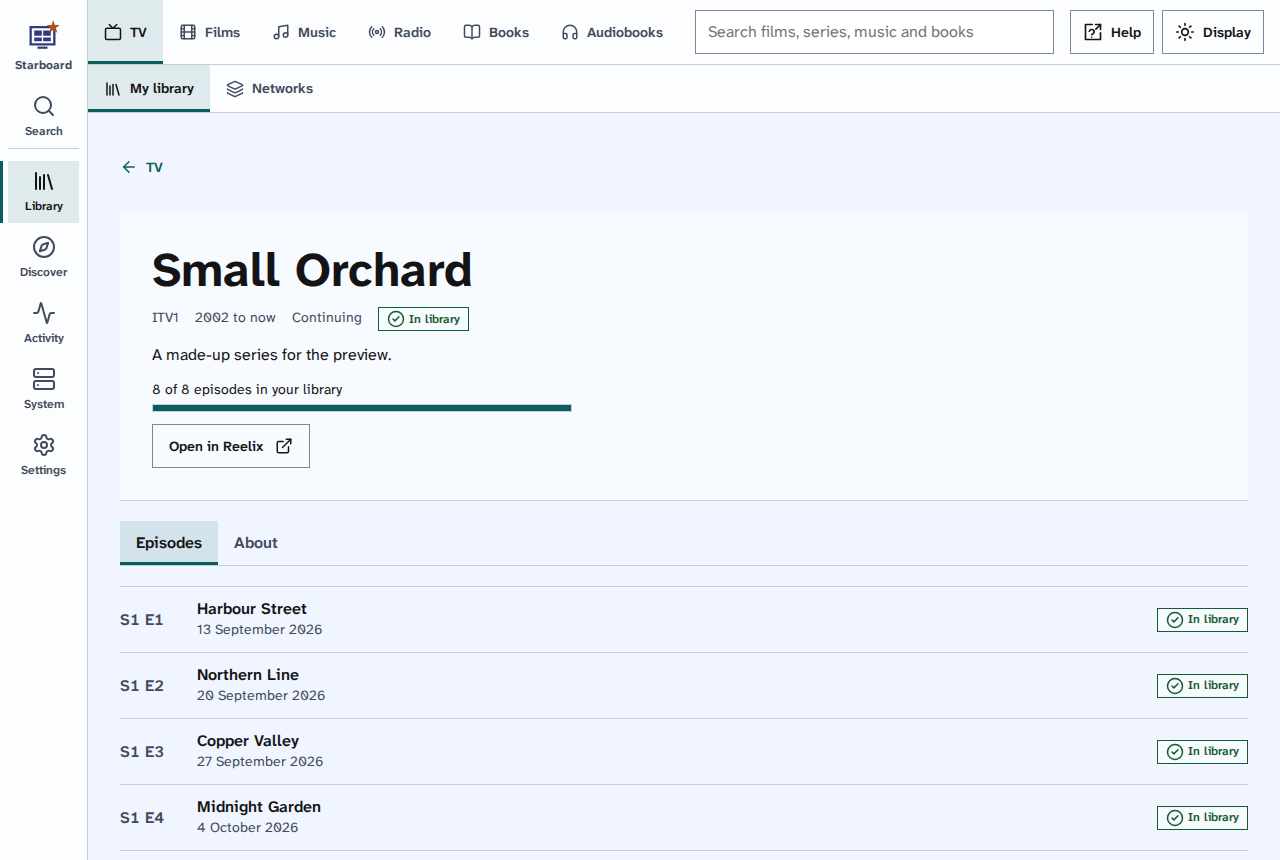
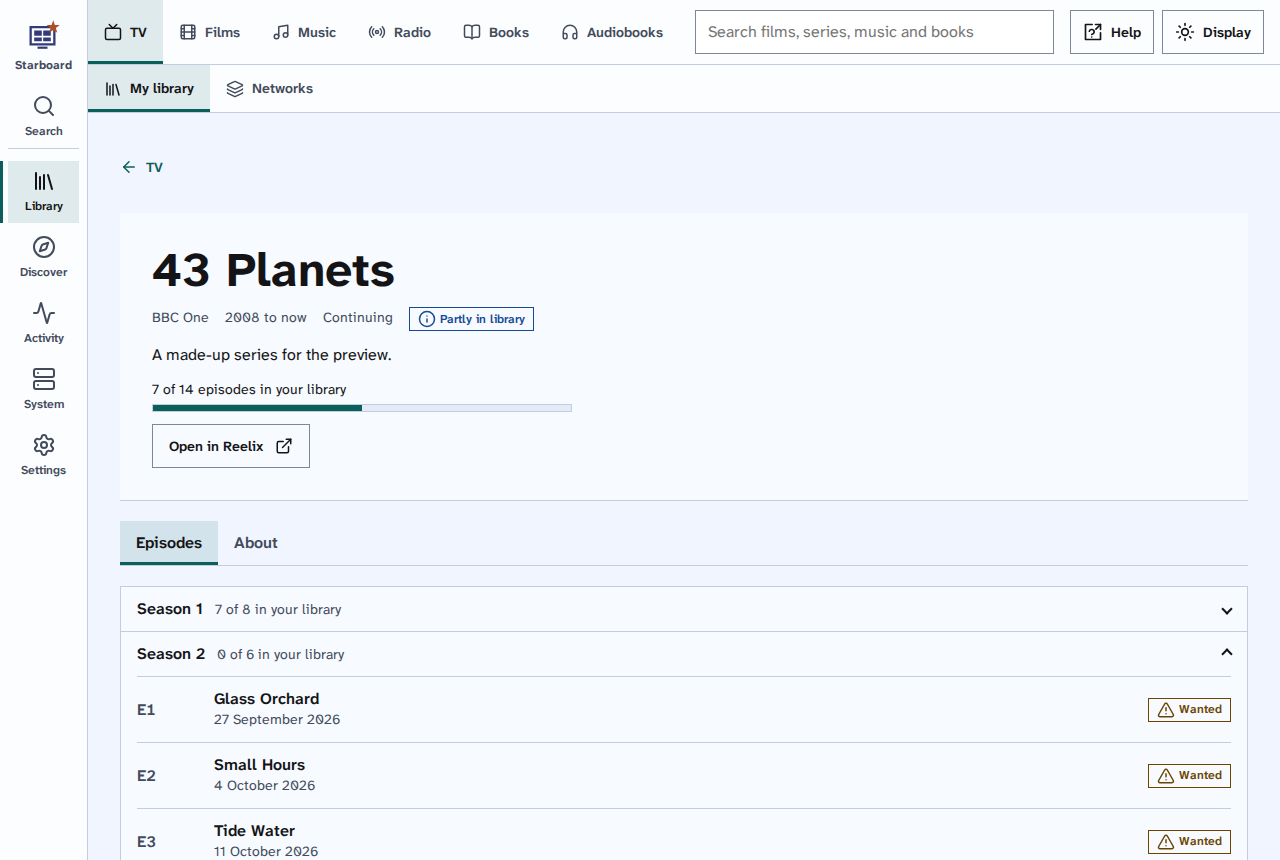
Library: a series' episodes grouped by season, the newest open
Each season is a disclosure with how many of its episodes are in the library; specials come last. A series of one
season stays a plain list. Unit test, a journey check (also at phone width), help step 7, changelog, and the README
and help pictures now show a two-season series.

diff --git a/web/js/library-item.js b/web/js/library-item.js
@@ -14,6 +14,14 @@ function rowList(rows) {
     el("div", { class: "row__side" }, r.status ? chip(r.status, r.tone) : null))));
 }
 
+// A long list in groups (a series' seasons): one disclosure each, the newest open. One group stays a plain list.
+function groupList(list) {
+  if (!list.groups || list.groups.length < 2) return rowList(list.rows);
+  return el("div", { class: "lib-seasons" }, ...list.groups.map((g) => el("details", { class: "disclosure", open: g.open || null },
+    el("summary", {}, el("span", { text: g.heading }), el("span", { class: "disclosure__meta", text: g.meta })),
+    el("div", { class: "disclosure__body" }, rowList(g.rows)))));
+}
+
 function about(item) {
   return el("div", { class: "stack-4" },
     item.overview ? el("p", { class: "prose", text: item.overview }) : null,
@@ -93,7 +101,7 @@ startPage().then(async () => {
   try {
     const item = await api(`/api/library/item?tab=${ITEM_TAB}&id=${id}`);
     document.title = `${item.title} · ${document.title}`;
-    const parts = item.lists.filter((l) => l.rows.length).map((l) => ({ key: l.key, label: l.label, heading: l.heading, body: rowList(l.rows) }));
+    const parts = item.lists.filter((l) => l.rows.length).map((l) => ({ key: l.key, label: l.label, heading: l.heading, body: groupList(l) }));
     parts.push({ key: "about", label: "About", heading: "", body: about(item) });
     if (ITEM_TAB === "films") parts.unshift(parts.pop()); // a film opens on About, then its collection
     box.replaceChildren(head(item), ...(parts.length > 1 ? tabs(parts) : [parts[0].body]));

diff --git a/starboard/library.py b/starboard/library.py
@@ -528,6 +528,20 @@ def _open(reelix, path):
     return {"label": "Open in Reelix", "href": reelix["link"].rstrip("/") + path}
 
 
+def _seasons(seasons):
+    """Episodes grouped by season, numbered seasons first, then Specials (season 0). The newest season opens; the
+    page shows the others closed, so a long series is not one long list."""
+    order = sorted(n for n in seasons if n) + ([0] if 0 in seasons else [])
+    newest = max((n for n in seasons if n), default=0)
+    out = []
+    for n in order:
+        rows = seasons[n]
+        have = sum(1 for r in rows if r["status"] == STATUS["in_library"][0])
+        out.append({"heading": f"Season {n}" if n else "Specials",
+                    "meta": f"{have:,} of {len(rows):,} in your library", "open": n == newest, "rows": rows})
+    return out
+
+
 def item(data_dir, reelix, tab, item_id):
     """One item's page: header, facts and its list (episodes, reading order, albums, collection)."""
     item_id = int(item_id)
@@ -561,12 +575,14 @@ def item(data_dir, reelix, tab, item_id):
         e = _series(s)
         st = s.get("statistics") or {}
         have, total = int(st.get("episode_file_count") or 0), int(st.get("episode_count") or 0)
-        rows = []
+        rows, seasons = [], {}
         for ep in sorted(episodes, key=lambda x: (x.get("season_number") or 0, x.get("episode_number") or 0)):
             aired = ep.get("air_date") or ""
             status = "in_library" if ep.get("has_file") else "not_released" if (not aired or aired > today) else \
                 "wanted" if ep.get("monitored", True) else "not_monitored"
-            rows.append(_row(f"S{ep.get('season_number', 0)} E{ep.get('episode_number', 0)}", ep.get("title"), aired, status))
+            row = _row(f"E{ep.get('episode_number', 0)}", ep.get("title"), aired, status)
+            rows.append(row)
+            seasons.setdefault(int(ep.get("season_number") or 0), []).append(row)
         out = {"title": s.get("title"), "meta": [x for x in (s.get("network") or "", e["m"].split(" · ")[-1] if e["m"] else "",
                                                              {"continuing": "Continuing", "ended": "Ended", "upcoming": "Coming soon"}.get(s.get("status"), ""))
                                                  if x],
@@ -576,7 +592,7 @@ def item(data_dir, reelix, tab, item_id):
         facts = [("Network", s.get("network")), ("First aired", _date(s.get("first_aired"))), ("Last aired", _date(s.get("last_aired"))),
                  ("Next airing", _date(s.get("next_airing"))), ("Seasons", st.get("season_count")),
                  ("Genres", ", ".join(s.get("genres") or [])), ("Certificate", s.get("certification"))]
-        lists = [{"key": "episodes", "label": "Episodes", "heading": "Episodes", "rows": rows}]
+        lists = [{"key": "episodes", "label": "Episodes", "heading": "Episodes", "rows": rows, "groups": _seasons(seasons)}]
     elif tab in ("books", "audiobooks"):
         b = services._api(reelix, f"/books/{item_id}") or {}
         fmt = "ebook" if tab == "books" else "audiobook"

diff --git a/tests/test_library.py b/tests/test_library.py
@@ -199,6 +199,20 @@ class IndexTest(unittest.TestCase):
         self.assertEqual([(g["name"], g["count"], g["letter"]) for g in library.groups(index, "films")], [("The Saga", 2, "S")])
         self.assertEqual(library.wall(index, "films", group="the saga")["shown"], 2)
 
+    def test_episodes_are_grouped_by_season_newest_open_specials_last(self):
+        row = lambda s, e, have: {"season_number": s, "episode_number": e, "title": f"S{s}E{e}", "air_date": "2020-01-01",
+                                  "has_file": have}
+        episodes = [row(2, 1, False), row(0, 1, True), row(1, 2, True), row(1, 1, True)]
+        def api(_r, path, *a, **k):
+            return episodes if path.endswith("/episodes") else {"id": 5, "title": "Show", "statistics": {}}
+        with mock.patch.object(services, "_api", api):
+            page = library.item(self.data, REELIX, "tv", "5")
+        groups = page["lists"][0]["groups"]
+        self.assertEqual([(g["heading"], g["meta"], g["open"]) for g in groups],
+                         [("Season 1", "2 of 2 in your library", False), ("Season 2", "0 of 1 in your library", True),
+                          ("Specials", "1 of 1 in your library", False)])
+        self.assertEqual([r["number"] for r in groups[0]["rows"]], ["E1", "E2"])
+
     def test_a_stale_index_is_refreshed_in_the_background_and_served_meanwhile(self):
         with mock.patch.object(services, "_api", FakeReelix(films=[film(1, "Old")])):
             library.refresh(self.data, REELIX, "films")

diff --git a/CHANGELOG.md b/CHANGELOG.md
@@ -10,7 +10,7 @@ add features.
 ### Added
 - **The Library, from Reelix:** **Library** shows everything Reelix holds, as TV, Films, Music, Radio, Books and Audiobooks. Each is a wall of covers, A to Z, with a search for that kind, filters with their counts (such as **Missing** or **Coming soon**), sort (A to Z, Recently added, Year), Covers or List, three cover sizes and **Show 40 more**. The placeholder Library pages are gone (DASH-163).
 - **The A to Z list:** a row of letters above each wall. Letters with nothing under them are shown but cannot be chosen, and say so to screen readers. It stays in view as you scroll, marks the letter you are at, and takes one Tab stop: the arrow keys move along it and Enter jumps. A letter further on opens the wall at that letter, with **Show earlier titles** above it. The row comes from the TRex Design System.
-- **A page for each title:** a film, series, artist, radio show, book or audiobook opens its own page with its name, what it is, how much of it you have, and its episodes, albums, reading order or collection, then **About**. Radio shows link to Audiobookshelf to listen.
+- **A page for each title:** a film, series, artist, radio show, book or audiobook opens its own page with its name, what it is, how much of it you have, and its episodes, albums, reading order or collection, then **About**. A series' episodes are grouped by season, the newest open, so a long series is not one long list. Radio shows link to Audiobookshelf to listen.
 - **Groups:** **Networks** for TV, **Collections** for films, **Stations** for radio, and **Series** and **Authors** for books and audiobooks, each opening the wall with only that group's titles.
 - **Save this view as default:** a changed sort, layout, cover size or filter can be saved as how that kind opens, for your account on every device. **Settings**, **General**, **Library views** lists them, with **Reset Library views**.
 - **Search opens on your library:** before you type, Search shows what was recently added and each kind with its count. As you type, it searches your library first, then lists what Reelix can find under **Not in your library**, each kind as soon as it is ready, with **Add**, or **Follow** for radio shows and podcasts (DASH-162). Without Reelix, Search looks in Sonarr, Radarr, Lidarr and Readarr as before.

diff --git a/docs/help/topics/browse-your-library.md b/docs/help/topics/browse-your-library.md
@@ -30,7 +30,9 @@ albums or reading order.
 ![A series page with example data, with its name (step 7) and TV, the way back to the wall (step 8) outlined](../images/browse-your-library-3-item.png)
 
 7. Select a title to open its page. It shows the name, what it is, how much of it you have, and:
-   - **Episodes** for a series or radio show, with each one's number, date and whether you have it.
+   - **Episodes** for a series or radio show, with each one's number, date and whether you have it. A series
+     with more than one season shows each season on its own, with how many of its episodes you have. The newest
+     season is open; select another season's name to open it.
    - **Reading order** for a book in a series.
    - **Albums** for an artist.
    - **Collection** for a film in a collection.
